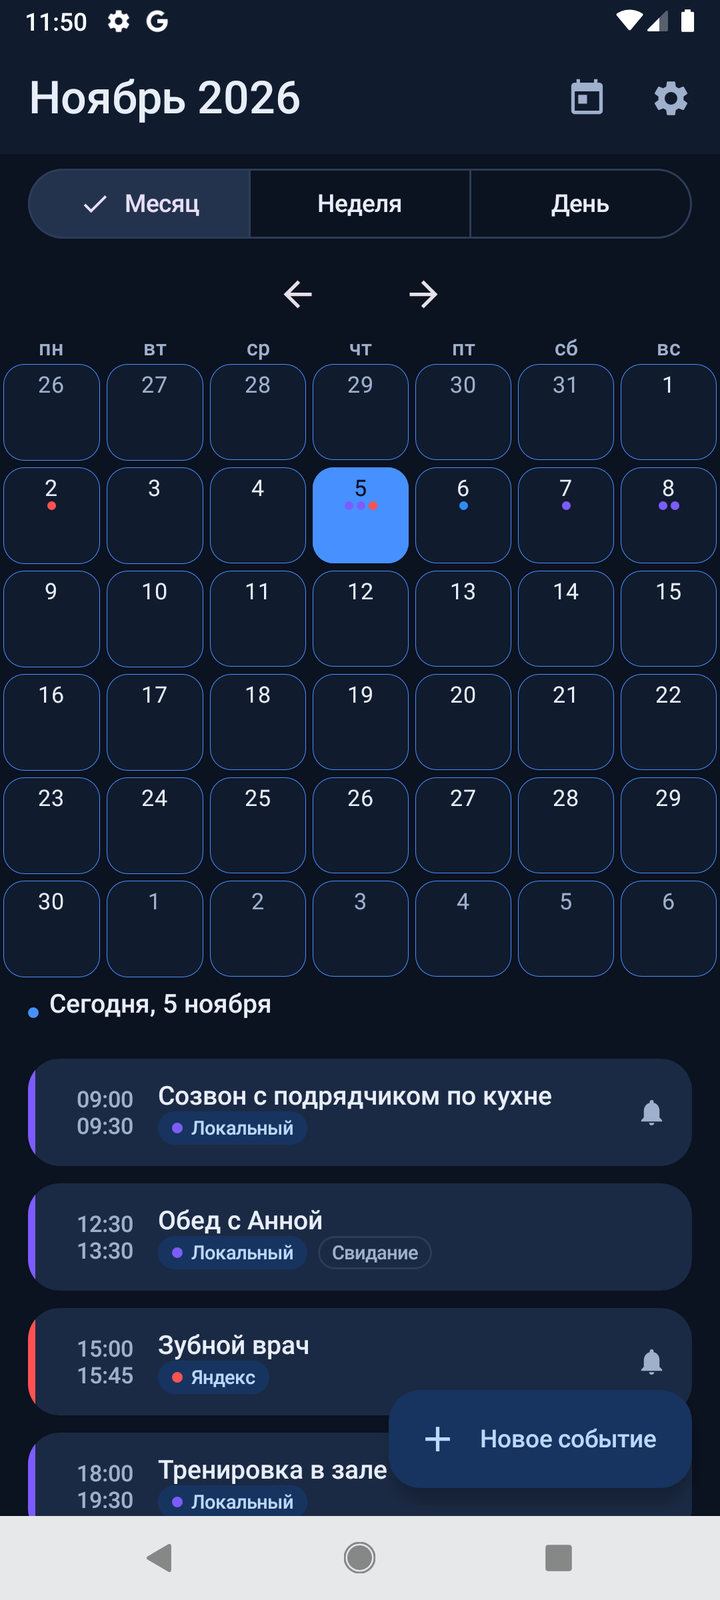
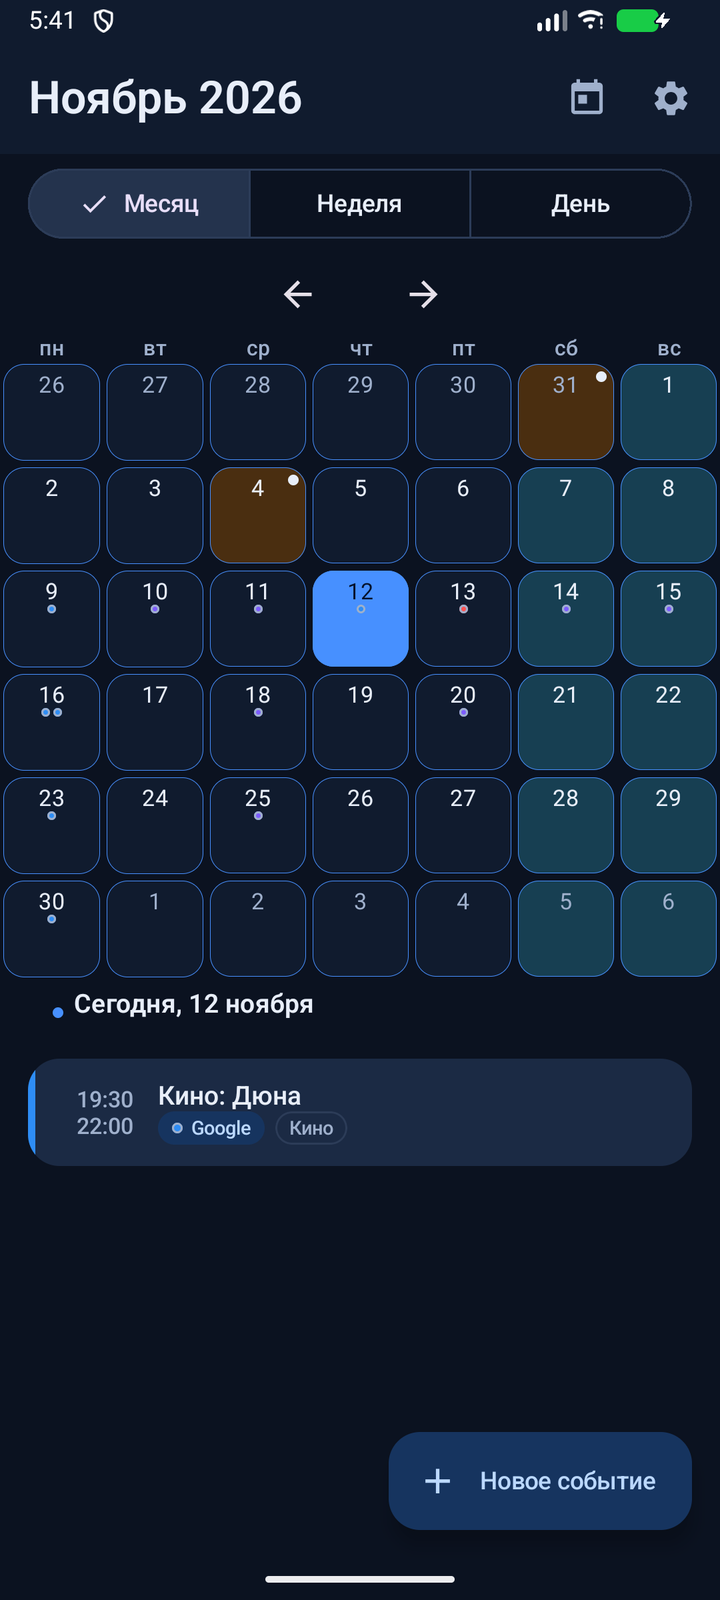
docs: скриншоты README пересняты под новый applicationId
Снимки сняты на эмуляторе API 37 с демо-данными: в месяце и неделе видны
тонированные выходные и праздник с маркером, в списке конфликтов —
исправленное склонение счётчика. Устаревшее примечание о старых снимках
удалено.

diff --git a/README.md b/README.md
@@ -23,10 +23,6 @@ CalDAV — в обе стороны.
 | ![Настройки](docs/screenshots/settings.png) | ![Приветствие](docs/screenshots/welcome.png) | |
 | Подключение календарей | Экран входа | |
 
-> **Примечание о скриншотах.** Снимки выше сняты до тонирования выходных и праздников, поэтому на
-> них ещё нет оттенка выходного/праздничного дня и маркера праздника. Пересъёмка требует запущенного
-> интерфейса на реальном устройстве или эмуляторе и из агента этой машины не выполняется.
-
 ## Возможности
 
 **Календарь**
